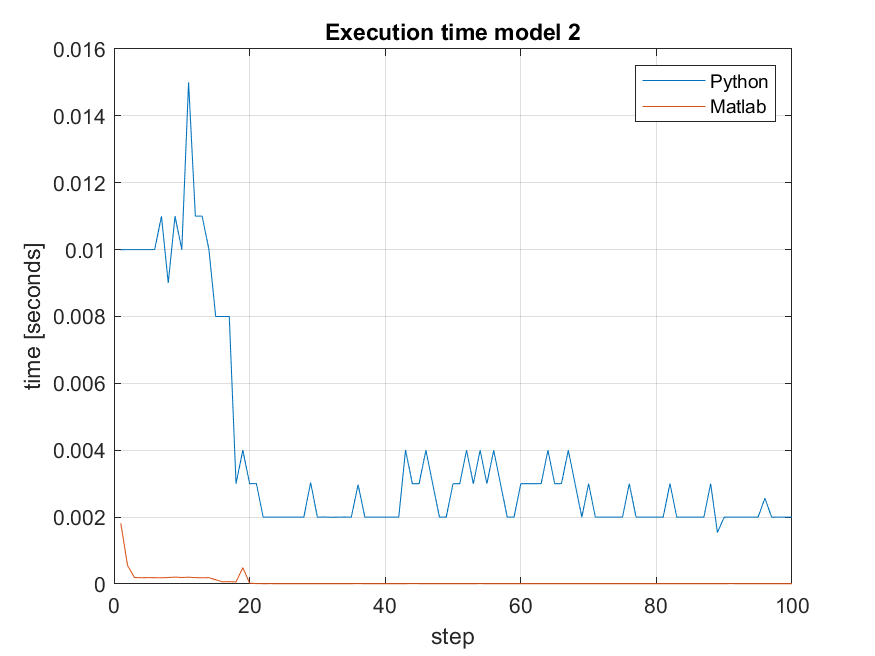
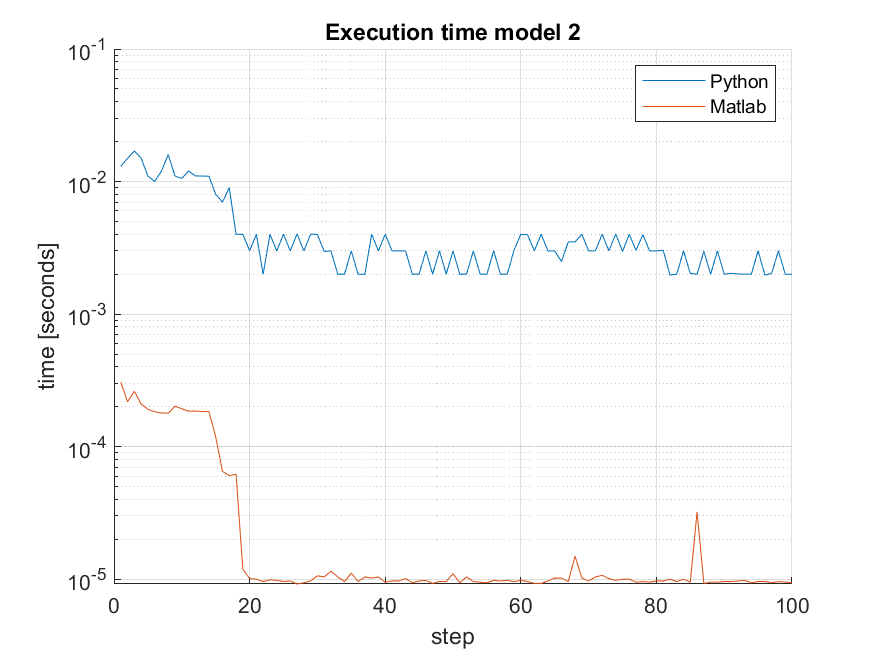
just added a plot

diff --git a/PythonCode/plots.py b/PythonCode/plots.py
@@ -2,7 +2,7 @@ import numpy as np
 from MPC_run import *
 import matplotlib.pyplot as plt
 
-PYTHONPLOTS = 0
+PYTHONPLOTS = 1
 
 
 if (MODEL ==1):
@@ -12,13 +12,19 @@ if (MODEL ==2):
     exe_time = np.matrix(tosave2) 
     iterations = while_iterations2
 
+'''
+average_iterations = sum(iterations)/len(iterations)
+print("average iterations: ")
+print(average_iterations)
+'''
+
 #Plotting runtime for Python algorithm 
 if (PYTHONPLOTS):
     if (MODEL == 1):
         plt.figure(3)
         plt.plot(np.arange(tend), tosave1[0,:], color="green", label="Time")
         plt.title("Runtime Python Model " + str(MODEL))
-        plt.xlabel("timestep")
+        plt.xlabel("time step")
         plt.ylabel("Runtime")
         plt.grid()
 
@@ -26,7 +32,7 @@ if (PYTHONPLOTS):
         plt.figure(3)
         plt.plot(np.arange(tend), tosave2[0,:], color="green", label="Time")
         plt.title("Runtime Python Model " + str(MODEL))
-        plt.xlabel("timestep")
+        plt.xlabel("time step")
         plt.ylabel("Runtime")
         plt.grid()
 
@@ -81,7 +87,7 @@ if (PYTHONPLOTS):
         plt.plot(np.arange(tend+1), xsave[1], color="blue", label="x2")
         plt.title("State trajectories")
         plt.legend(loc="lower center",fontsize=10,ncol=2)
-        plt.xlabel("timestep")
+        plt.xlabel("time step")
         plt.ylabel("x")
         plt.grid()
         
@@ -89,7 +95,7 @@ if (PYTHONPLOTS):
         input = plt.figure(2)
         plt.plot(np.arange(tend), usave[0], color="blue", label="u")
         plt.title("System input")
-        plt.xlabel("timestep")
+        plt.xlabel("time step")
         plt.ylabel("u")
         plt.grid()
         plt.show()
@@ -100,7 +106,7 @@ if (PYTHONPLOTS):
         plt.plot(np.arange(tend+1), ym[0], color="green", label="ym1")
         plt.plot(np.arange(tend+1), ym[1], color="blue", label="ym2")
         plt.title("Output trajectories")
-        plt.xlabel("timestep")
+        plt.xlabel("time step")
         plt.ylabel("ym")
         plt.legend(loc="lower center",fontsize=10,ncol=2)
         plt.grid()
@@ -109,7 +115,7 @@ if (PYTHONPLOTS):
         plt.plot(np.arange(tend), usave[0], color="blue", label="u1")
         plt.plot(np.arange(tend), usave[1], color="green", label="u2")
         plt.title("Input trajectories")
-        plt.xlabel("timestep")
+        plt.xlabel("time step")
         plt.legend(loc="lower center",fontsize=10,ncol=2)
         plt.ylabel("u")
         plt.grid()

diff --git a/Matlab_kode/MPClambda2sbrybtNEWEST_run.m b/Matlab_kode/MPClambda2sbrybtNEWEST_run.m
@@ -184,7 +184,7 @@ if (Model == 1)
     plot(tx,xsave(1,:),'b',tx,xsave(2,:),'r')
     legend('x1', 'x2')
     ylabel('x')
-    xlabel('timestep')
+    xlabel('time step')
     title('State trajectories')
 
     figure(2)
@@ -192,7 +192,7 @@ if (Model == 1)
     tu = linspace(0,tend-1,tend);
     plot(tu,usave)
     ylabel('u')
-    xlabel('timestep')
+    xlabel('time step')
     title('System input')
     
     
@@ -201,12 +201,21 @@ elseif (Model == 2)
     figure(1)
     tx = linspace(0,tend,tend+1);
     plot(tx,ym(1,:),'b',tx,ym(2,:),'r')
+    legend('ym1', 'ym2')
+    xlabel('time step')
+    ylabel('ym')
     title('Output trajectories')
+    grid
 
 
     figure(2)
     tu = linspace(0,tend-1,tend);
     plot(tu,usave(1,:),'b',tu,usave(2,:),'r')
+    legend('u1', 'u2')
+    ylabel('u')
+    xlabel('time step')
+    title('Input trajectories')
+    grid
 elseif (Model == 3)
     ym = C*xsave;                        
     figure(1)

diff --git a/Matlab_kode/plotting.m b/Matlab_kode/plotting.m
@@ -23,13 +23,15 @@ python_iterations2 = W2(2:101);
 if (Model == 1)
     
     f = figure("Name", "myfig");
+    axes('XScale', 'linear', 'YScale', 'log')
+    hold on;
     plot(python_times1, 'LineWidth', 2);
     hold on;
     plot(tosave1, 'LineWidth', 2);
     hold off;
     legend('Python','Matlab')
     title('Execution time model 1');
-    set(gca, 'YScale', 'log')
+    %set(gca, 'YScale', 'log')
     ylabel('time [seconds]')
     xlabel('step')
     %ylim([0, 0.00004])
@@ -40,6 +42,8 @@ end
 if (Model == 2)
 
     f = figure("Name", "myfig");
+    axes('XScale', 'linear', 'YScale', 'log')
+    hold on;
     plot(python_times2);
     hold on;
     plot(tosave2);

diff --git a/Matlab_kode/MPC_setup.m b/Matlab_kode/MPC_setup.m
@@ -1,4 +1,4 @@
-Model = 3;
+Model = 2;
 
 if (Model == 1)
     % Discrete double integrator
